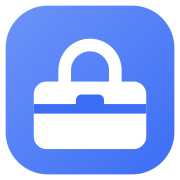
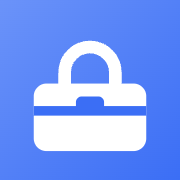
倒數提示音:新增「試聽語音」;一併帶入全站重新整理按鈕與 header 調整
- countdown-cue:新增「🔊 試聽語音」按鈕,以 Web Audio 即時播放
  「(第一個時間點的區段)…5…4…3…2…1」,不需先選音樂、不需輸出 MP3
- 一併提交先前工作區既有的全站變更:各工具頁頁首的重新整理按鈕、
  header-actions / reload-btn 樣式、apple 圖示與 apple-mobile-web-app-title

diff --git a/tools/countdown-cue/index.html b/tools/countdown-cue/index.html
@@ -64,6 +64,14 @@
     <header class="site-header">
       <div class="container">
         <a class="brand" href="../../"><img class="logo" src="../../assets/favicon.svg" alt="" width="26" height="26" /> Web-Tools</a>
+        <div class="header-actions">
+          <button type="button" class="reload-btn" onclick="this.classList.add('spinning');location.reload()" aria-label="重新整理" title="重新整理">
+            <svg viewBox="0 0 24 24" fill="none" stroke="currentColor" stroke-width="2" stroke-linecap="round" stroke-linejoin="round" aria-hidden="true">
+              <path d="M21 12a9 9 0 1 1-2.64-6.36" />
+              <polyline points="21 3 21 9 15 9" />
+            </svg>
+          </button>
+        </div>
       </div>
     </header>
 
@@ -107,8 +115,12 @@
           <label class="check" style="margin-bottom:6px"><input type="checkbox" id="addGo" /> 到達時說「Go」</label>
         </div>
 
-        <div style="margin-top:18px">
+        <div style="margin-top:18px; display:flex; gap:10px; flex-wrap:wrap; align-items:center">
           <button class="btn primary" id="generate" disabled>產生</button>
+          <button class="btn" id="previewBtn" type="button">🔊 試聽語音</button>
+        </div>
+        <div class="hint" style="margin-top:6px">
+          試聽會直接播放「(第一個時間點的區段)… 5 … 4 … 3 … 2 … 1」,不需先選音樂。
         </div>
 
         <div class="progress-wrap" id="progressWrap">
@@ -433,6 +445,65 @@
             setStatus("✗ 失敗:" + (err && err.message ? err.message : err), "error");
           } finally {
             generateBtn.disabled = false;
+          }
+        });
+
+        // ---- Audition (live preview, no music / no MP3 encode) ----
+        var previewBtn = $("previewBtn");
+        var previewSources = [];
+        function stopPreview() {
+          previewSources.forEach(function (s) { try { s.stop(); } catch (_) {} });
+          previewSources = [];
+        }
+        previewBtn.addEventListener("click", async function () {
+          var L = Math.round(Number(countInput.value));
+          if (!(L >= 1 && L <= 10)) { setStatus("✗ 倒數秒數需為 1–10", "error"); return; }
+          var voiceVol = Math.max(0, Number(voiceVolInput.value) / 100);
+          var firstSel = cueList.querySelector(".cue-label");
+          var label = firstSel ? (firstSel.value || "") : "";
+
+          previewBtn.disabled = true;
+          try {
+            var need = {};
+            for (var k = 1; k <= L; k++) need[NUM[k]] = 1;
+            if (addGoChk.checked) need["go"] = 1;
+            if (label) need["part_" + label] = 1;
+            setStatus("正在載入語音…");
+            await Promise.all(Object.keys(need).map(decodeClip));
+
+            stopPreview();
+            var ctx = getCtx();
+            if (ctx.state === "suspended") await ctx.resume();
+            var vg = ctx.createGain();
+            vg.gain.value = voiceVol;
+            vg.connect(ctx.destination);
+
+            var gap = 0.5;
+            var t0 = ctx.currentTime + 0.06;
+            var numbersStart = t0;
+            if (label) {
+              var lb = clipCache["part_" + label];
+              var ls = ctx.createBufferSource();
+              ls.buffer = lb; ls.connect(vg); ls.start(t0);
+              previewSources.push(ls);
+              numbersStart = t0 + lb.duration + gap;
+            }
+            for (var j = 0; j < L; j++) {
+              var s = ctx.createBufferSource();
+              s.buffer = clipCache[NUM[L - j]]; // L, L-1, …, 1
+              s.connect(vg); s.start(numbersStart + j);
+              previewSources.push(s);
+            }
+            if (addGoChk.checked) {
+              var g = ctx.createBufferSource();
+              g.buffer = clipCache["go"]; g.connect(vg); g.start(numbersStart + L);
+              previewSources.push(g);
+            }
+            setStatus("▶ 試聽中…" + (label ? "(Part " + label.toUpperCase() + ")" : ""), "ok");
+          } catch (err) {
+            setStatus("✗ 試聽失敗:" + (err && err.message ? err.message : err), "error");
+          } finally {
+            previewBtn.disabled = false;
           }
         });
       })();

diff --git a/assets/css/style.css b/assets/css/style.css
@@ -92,10 +92,50 @@ a:hover {
   display: block;
 }
 .site-header nav {
-  margin-left: auto;
   display: flex;
   gap: 18px;
   font-size: 0.92rem;
+}
+.site-header .header-actions {
+  margin-left: auto;
+  display: flex;
+  align-items: center;
+  gap: 16px;
+}
+.reload-btn {
+  display: inline-flex;
+  align-items: center;
+  justify-content: center;
+  width: 38px;
+  height: 38px;
+  padding: 0;
+  border: 1px solid var(--border);
+  border-radius: var(--radius-sm);
+  background: var(--surface);
+  color: var(--text-muted);
+  cursor: pointer;
+  transition: background 0.15s, color 0.15s, border-color 0.15s;
+  -webkit-tap-highlight-color: transparent;
+}
+.reload-btn:hover {
+  background: var(--surface-2);
+  color: var(--text);
+}
+.reload-btn:active {
+  background: var(--surface-2);
+}
+.reload-btn svg {
+  width: 18px;
+  height: 18px;
+  display: block;
+}
+.reload-btn.spinning svg {
+  animation: reload-spin 0.6s linear infinite;
+}
+@keyframes reload-spin {
+  to {
+    transform: rotate(360deg);
+  }
 }
 
 /* Hero */

diff --git a/index.html b/index.html
@@ -9,14 +9,23 @@
     <link rel="icon" type="image/svg+xml" href="assets/favicon.svg" />
     <link rel="icon" type="image/png" sizes="32x32" href="assets/favicon-32.png" />
     <link rel="apple-touch-icon" href="assets/apple-touch-icon.png" />
+    <meta name="apple-mobile-web-app-title" content="Web-Tools" />
   </head>
   <body>
     <header class="site-header">
       <div class="container">
         <span class="brand"><img class="logo" src="assets/favicon.svg" alt="" width="26" height="26" /> Web-Tools</span>
-        <nav>
-          <a href="https://github.com/Nocold/Web-Tools" target="_blank" rel="noopener">GitHub</a>
-        </nav>
+        <div class="header-actions">
+          <button type="button" class="reload-btn" onclick="this.classList.add('spinning');location.reload()" aria-label="重新整理" title="重新整理">
+            <svg viewBox="0 0 24 24" fill="none" stroke="currentColor" stroke-width="2" stroke-linecap="round" stroke-linejoin="round" aria-hidden="true">
+              <path d="M21 12a9 9 0 1 1-2.64-6.36" />
+              <polyline points="21 3 21 9 15 9" />
+            </svg>
+          </button>
+          <nav>
+            <a href="https://github.com/Nocold/Web-Tools" target="_blank" rel="noopener">GitHub</a>
+          </nav>
+        </div>
       </div>
     </header>
 

diff --git a/tools/base64/index.html b/tools/base64/index.html
@@ -13,6 +13,14 @@
     <header class="site-header">
       <div class="container">
         <a class="brand" href="../../"><img class="logo" src="../../assets/favicon.svg" alt="" width="26" height="26" /> Web-Tools</a>
+        <div class="header-actions">
+          <button type="button" class="reload-btn" onclick="this.classList.add('spinning');location.reload()" aria-label="重新整理" title="重新整理">
+            <svg viewBox="0 0 24 24" fill="none" stroke="currentColor" stroke-width="2" stroke-linecap="round" stroke-linejoin="round" aria-hidden="true">
+              <path d="M21 12a9 9 0 1 1-2.64-6.36" />
+              <polyline points="21 3 21 9 15 9" />
+            </svg>
+          </button>
+        </div>
       </div>
     </header>
 

diff --git a/tools/json-formatter/index.html b/tools/json-formatter/index.html
@@ -13,6 +13,14 @@
     <header class="site-header">
       <div class="container">
         <a class="brand" href="../../"><img class="logo" src="../../assets/favicon.svg" alt="" width="26" height="26" /> Web-Tools</a>
+        <div class="header-actions">
+          <button type="button" class="reload-btn" onclick="this.classList.add('spinning');location.reload()" aria-label="重新整理" title="重新整理">
+            <svg viewBox="0 0 24 24" fill="none" stroke="currentColor" stroke-width="2" stroke-linecap="round" stroke-linejoin="round" aria-hidden="true">
+              <path d="M21 12a9 9 0 1 1-2.64-6.36" />
+              <polyline points="21 3 21 9 15 9" />
+            </svg>
+          </button>
+        </div>
       </div>
     </header>
 

diff --git a/tools/mp3-splitter/index.html b/tools/mp3-splitter/index.html
@@ -115,6 +115,14 @@
     <header class="site-header">
       <div class="container">
         <a class="brand" href="../../"><img class="logo" src="../../assets/favicon.svg" alt="" width="26" height="26" /> Web-Tools</a>
+        <div class="header-actions">
+          <button type="button" class="reload-btn" onclick="this.classList.add('spinning');location.reload()" aria-label="重新整理" title="重新整理">
+            <svg viewBox="0 0 24 24" fill="none" stroke="currentColor" stroke-width="2" stroke-linecap="round" stroke-linejoin="round" aria-hidden="true">
+              <path d="M21 12a9 9 0 1 1-2.64-6.36" />
+              <polyline points="21 3 21 9 15 9" />
+            </svg>
+          </button>
+        </div>
       </div>
     </header>
 

diff --git a/tools/timestamp/index.html b/tools/timestamp/index.html
@@ -13,6 +13,14 @@
     <header class="site-header">
       <div class="container">
         <a class="brand" href="../../"><img class="logo" src="../../assets/favicon.svg" alt="" width="26" height="26" /> Web-Tools</a>
+        <div class="header-actions">
+          <button type="button" class="reload-btn" onclick="this.classList.add('spinning');location.reload()" aria-label="重新整理" title="重新整理">
+            <svg viewBox="0 0 24 24" fill="none" stroke="currentColor" stroke-width="2" stroke-linecap="round" stroke-linejoin="round" aria-hidden="true">
+              <path d="M21 12a9 9 0 1 1-2.64-6.36" />
+              <polyline points="21 3 21 9 15 9" />
+            </svg>
+          </button>
+        </div>
       </div>
     </header>
 

diff --git a/tools/video-to-mp3/index.html b/tools/video-to-mp3/index.html
@@ -111,6 +111,14 @@
     <header class="site-header">
       <div class="container">
         <a class="brand" href="../../"><img class="logo" src="../../assets/favicon.svg" alt="" width="26" height="26" /> Web-Tools</a>
+        <div class="header-actions">
+          <button type="button" class="reload-btn" onclick="this.classList.add('spinning');location.reload()" aria-label="重新整理" title="重新整理">
+            <svg viewBox="0 0 24 24" fill="none" stroke="currentColor" stroke-width="2" stroke-linecap="round" stroke-linejoin="round" aria-hidden="true">
+              <path d="M21 12a9 9 0 1 1-2.64-6.36" />
+              <polyline points="21 3 21 9 15 9" />
+            </svg>
+          </button>
+        </div>
       </div>
     </header>
 